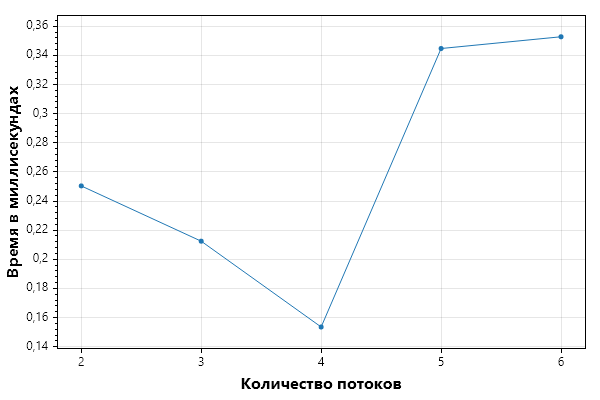
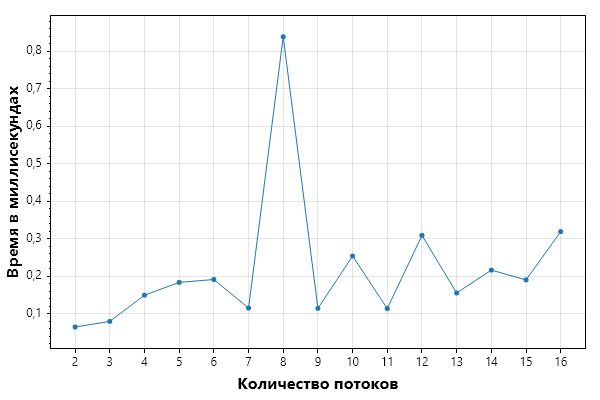
fix: Optimize parallel integration and fix benchmarks

diff --git a/task15/Program.cs b/task15/Program.cs
@@ -24,18 +24,18 @@ class Program
             }
         });
 
-        int[] threadsnumbers = { 2, 3, 4, 5, 6};
+        int[] threadsnumbers = { 2, 3, 4, 5, 6, 7, 8, 9, 10, 11, 12, 13, 14, 15, 16};
         Dictionary<int, double> FlowDependentSpeed = new Dictionary<int, double>();
         threadsnumbers.ToList().ForEach(threadnumber =>
         {
             Stopwatch stopwatch = new Stopwatch();
             stopwatch.Start();
-            for (int i = 0; i < 50; i++) 
+            for (int i = 0; i < 100; i++) 
             {
                 DefiniteIntegral.Solve(start, end, SIN, minstep, threadnumber);
             }
             stopwatch.Stop();
-            FlowDependentSpeed[threadnumber] = (double)stopwatch.ElapsedTicks / Stopwatch.Frequency * 1000 / 50;
+            FlowDependentSpeed[threadnumber] = (double)stopwatch.ElapsedTicks / Stopwatch.Frequency * 1000 / 100;
         });
 
         var plt = new Plot();
@@ -52,21 +52,23 @@ class Program
         double timeIntegral = 0;
         Stopwatch stopwatch1 = new Stopwatch();
         stopwatch1.Start();
-        for (int i = 0; i < 50; i++) 
+        for (int i = 0; i < 100; i++) 
         {
             DefiniteIntegral.Integral(start, end, SIN, minstep);
         }
         stopwatch1.Stop();
-        timeIntegral = (double)stopwatch1.ElapsedTicks / Stopwatch.Frequency * 1000 / 50;
+        timeIntegral = (double)stopwatch1.ElapsedTicks / Stopwatch.Frequency * 1000 / 100;
 
-        var percent = FlowDependentSpeed.Values.Min() / timeIntegral * 100;
+        var percent = (timeIntegral - FlowDependentSpeed.Values.Min()) / FlowDependentSpeed.Values.Min() * 100;
         if (percent > 15) 
         {
             string ex = Environment.NewLine;
             string file = $"Размер шага: {minstep}{ex}" +
                 $"Оптимальное кол-во потоков: {FlowDependentSpeed.Where(s => s.Value == FlowDependentSpeed.Values.Min())
                                                                  .Select(s => s.Key.ToString()).First()}{ex}" +
-                $"Скорость оптимальной многопоточной версии в сравнении с однопоточной: {Math.Round(percent, 1)}";
+                $"Скорость оптимальной многопоточной версии в сравнении с однопоточной: {Math.Round(percent, 1)}%{ex}" +
+                $"Скорость однопоточной: {Math.Round(timeIntegral, 2)}{ex}" +
+                $"Скорость многопоточной: {Math.Round(FlowDependentSpeed.Values.Min(), 2)}";
             File.WriteAllText(Path.Combine(path, "file.txt"), file);
         }
         else

diff --git a/task14/Class1.cs b/task14/Class1.cs
@@ -1,36 +1,22 @@
 using System.Diagnostics.CodeAnalysis;
+using System.Threading.Tasks;
 
 public class DefiniteIntegral
 {
     public static double Solve(double a, double b, Func<double, double> function, double step, int threadsnumber)
     {
-        double result = 0;
         double stepIntegral = (b - a) / threadsnumber;
-        Parallel.For(0, threadsnumber, new ParallelOptions { MaxDegreeOfParallelism = threadsnumber }, i =>
-        {
-            double start = a + i * stepIntegral;
-            double end = 0;
-            if (start + stepIntegral >= b)
-            {
-                end = b;
-            }
-            else
-            {
-                end = start + stepIntegral;
-            }
 
-            double newIntegar = Integral(start, end, function, step);
-            double initial;
-            double newresult;
-            do
-            {
-                initial = result;
-                newresult = initial + newIntegar;
-            }
-            while (initial != Interlocked.CompareExchange(ref result, newresult, initial));
-
-        });
-        return result;
+        return Enumerable.Range(0, threadsnumber)
+                         .AsParallel()
+                         .WithDegreeOfParallelism(threadsnumber)
+                         .Select(i =>
+                         {
+                             double start = a + i * stepIntegral;
+                             double end = (i == threadsnumber - 1) ? b : start + stepIntegral;
+                             return Integral(start, end, function, step);
+                         })
+                         .Sum();
     }
 
     public static double Integral(double a, double b, Func<double, double> function, double step)
